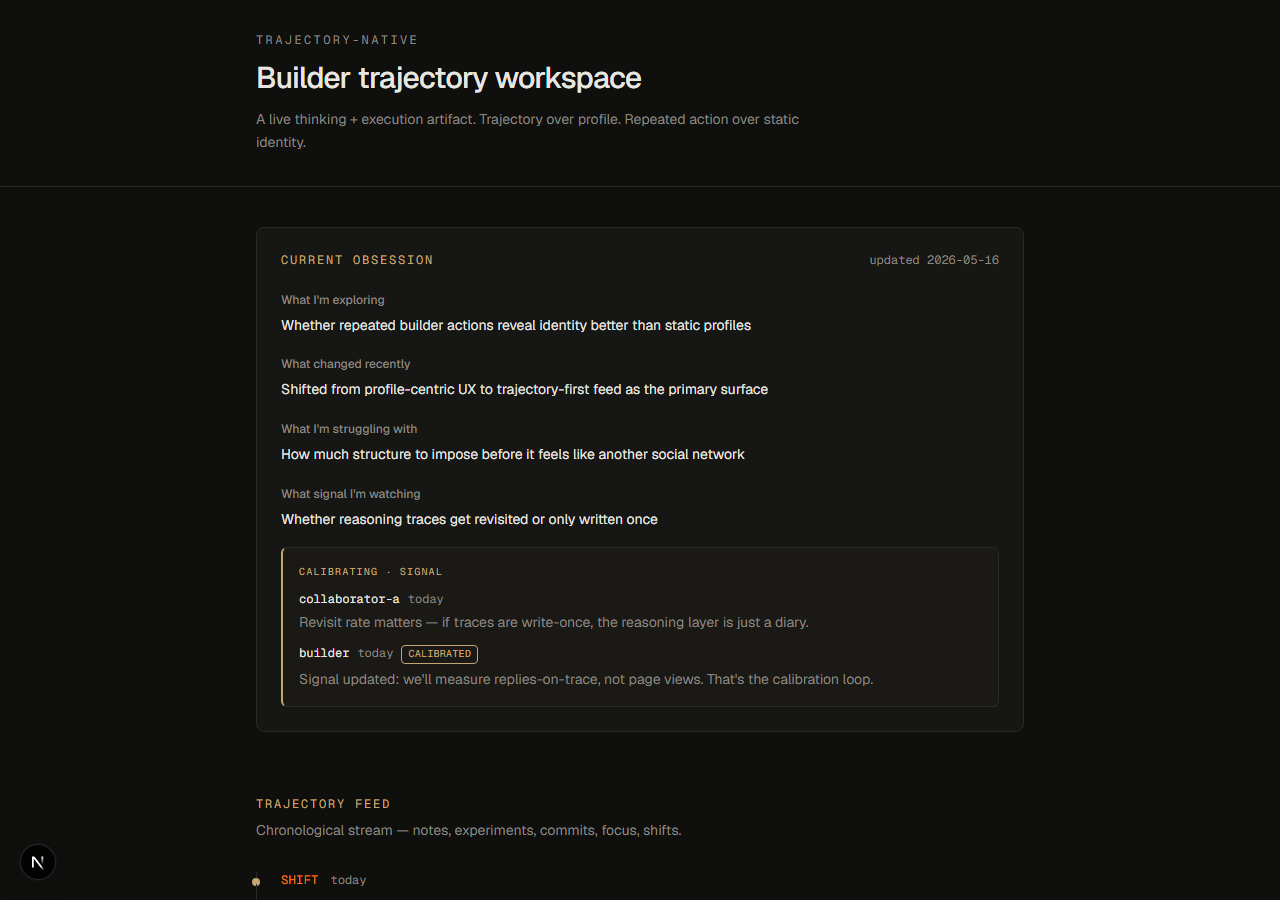
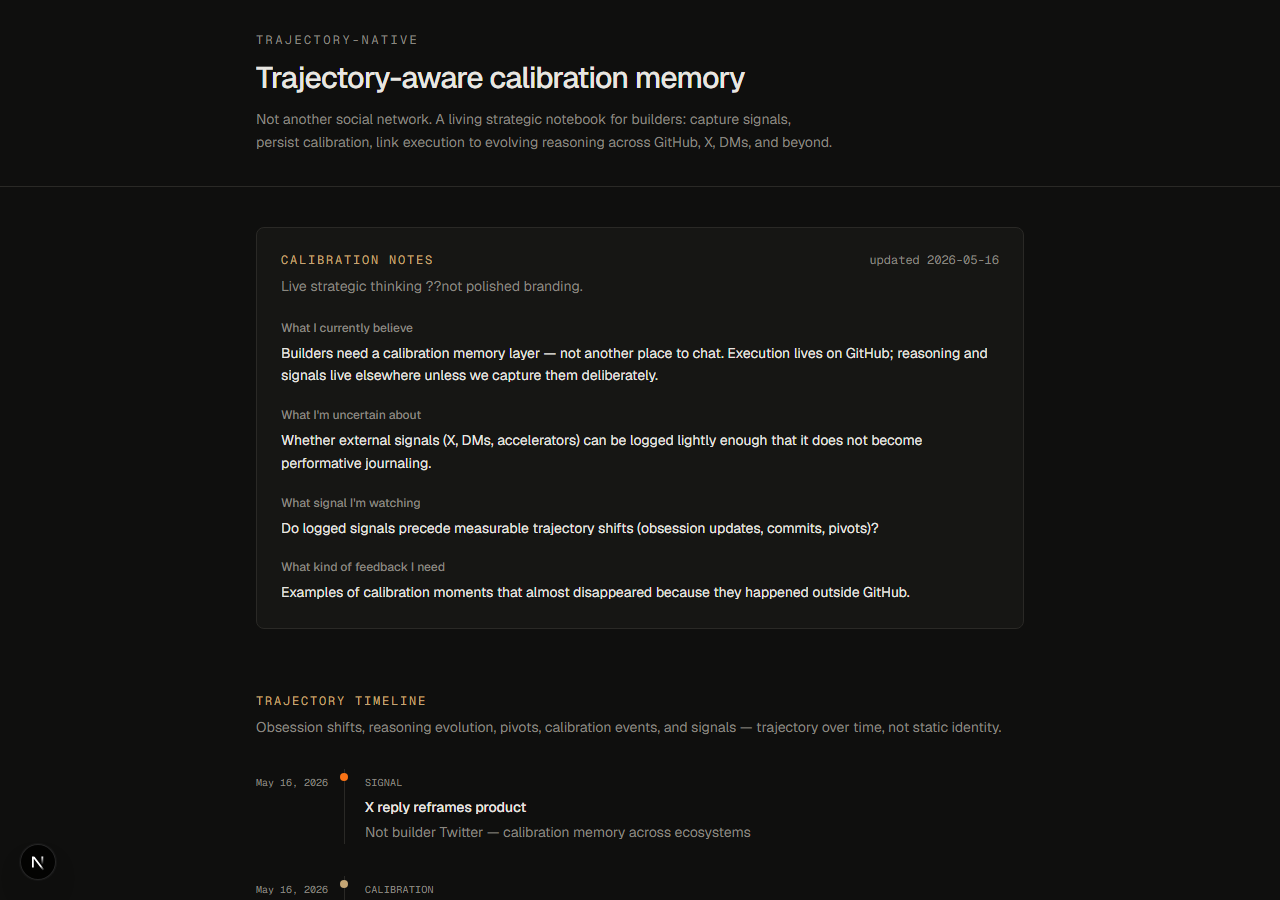
docs: refresh product demo screenshots for v0.3

diff --git a/README.md b/README.md
@@ -47,15 +47,13 @@ Open [http://localhost:3000](http://localhost:3000).
 
 ## Product demo
 
-**Hero view:**
+**Hero view** — calibration notes, timeline, and signals received:
 
-![Builder trajectory workspace — hero view](docs/screenshots/demo-hero.png)
+![Calibration memory layer — hero view](docs/screenshots/demo-hero.png)
 
-**Full page:**
+**Full page** — timeline, signals, execution residue, and reasoning continuity:
 
-![Builder trajectory workspace — full page](docs/screenshots/demo-full.png)
-
-*Screenshots may predate v0.3 UI — run locally for latest.*
+![Calibration memory layer — full page](docs/screenshots/demo-full.png)
 
 ## Strategic principle
 